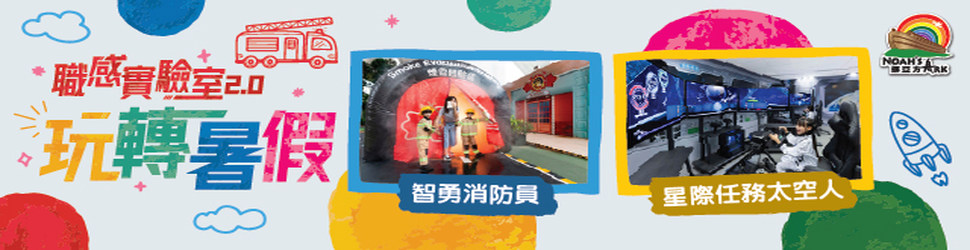
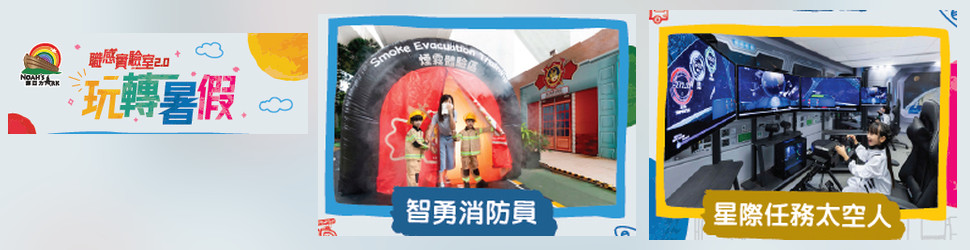
Rebuild unlisted 970x250 previews proportionally

diff --git a/ads/a/970x250/index.html b/ads/a/970x250/index.html
@@ -26,8 +26,8 @@
     .frame-03 { animation-name:frame-03; }
     .frame-04 { animation-name:frame-04; }
     .frame-05 { animation-name:frame-05; } .frame-06 { animation-name:frame-06; }
-    .badge { left:309px; top:15px; width:206px; height:140px; animation-name:badge-motion; }
-    .cta { left:809px; top:180px; width:152px; height:60px; animation-name:cta-motion; }
+    .badge { left:340px; top:15px; width:170px; height:140px; animation-name:badge-motion; }
+    .cta { left:753px; top:180px; width:125px; height:60px; animation-name:cta-motion; }
     .border {
       position:absolute; inset:0; z-index:10; pointer-events:none;
       box-shadow:inset 0 0 0 1px rgba(0,0,0,.18);
@@ -83,14 +83,14 @@
 </head>
 <body>
   <div class="ad" aria-label="Noah's Ark promotion">
-    <amp-img class="frame frame-01" src="frame-01.jpg" width="970" height="250" alt=""></amp-img>
-    <amp-img class="frame frame-02" src="frame-02.jpg" width="970" height="250" alt=""></amp-img>
-    <amp-img class="frame frame-03" src="frame-03.jpg" width="970" height="250" alt=""></amp-img>
-    <amp-img class="frame frame-04" src="frame-04.jpg" width="970" height="250" alt=""></amp-img>
-    <amp-img class="frame frame-05" src="base-05.jpg" width="970" height="250" alt=""></amp-img>
-    <amp-img class="frame frame-06" src="base-06.jpg" width="970" height="250" alt=""></amp-img>
-    <amp-img class="motion badge" src="badge-05.png" width="206" height="140" alt=""></amp-img>
-    <amp-img class="motion cta" src="cta-06.png" width="152" height="60" alt="More details"></amp-img>
+    <amp-img class="frame frame-01" src="frame-01.jpg?v=proportional-assets-0730" width="970" height="250" alt=""></amp-img>
+    <amp-img class="frame frame-02" src="frame-02.jpg?v=proportional-assets-0730" width="970" height="250" alt=""></amp-img>
+    <amp-img class="frame frame-03" src="frame-03.jpg?v=proportional-assets-0730" width="970" height="250" alt=""></amp-img>
+    <amp-img class="frame frame-04" src="frame-04.jpg?v=proportional-assets-0730" width="970" height="250" alt=""></amp-img>
+    <amp-img class="frame frame-05" src="base-05.jpg?v=proportional-assets-0730" width="970" height="250" alt=""></amp-img>
+    <amp-img class="frame frame-06" src="base-06.jpg?v=proportional-assets-0730" width="970" height="250" alt=""></amp-img>
+    <amp-img class="motion badge" src="badge-05.png?v=proportional-assets-0730" width="170" height="140" alt=""></amp-img>
+    <amp-img class="motion cta" src="cta-06.png?v=proportional-assets-0730" width="125" height="60" alt="More details"></amp-img>
     <div class="border" aria-hidden="true"></div>
   </div>
 </body>

diff --git a/ads/b/970x250/index.html b/ads/b/970x250/index.html
@@ -26,8 +26,8 @@
     .frame-03 { animation-name:frame-03; }
     .frame-04 { animation-name:frame-04; }
     
-    .tagline { left:15px; top:75px; width:391px; height:100px; animation-name:tagline-motion; }
-    .cta { left:788px; top:0px; width:182px; height:65px; animation-name:cta-motion; }
+    .tagline { left:97px; top:75px; width:322px; height:100px; animation-name:tagline-motion; }
+    .cta { left:735px; top:0px; width:150px; height:65px; animation-name:cta-motion; }
     .border {
       position:absolute; inset:0; z-index:10; pointer-events:none;
       box-shadow:inset 0 0 0 1px rgba(0,0,0,.18);
@@ -72,12 +72,12 @@
 </head>
 <body>
   <div class="ad" aria-label="Noah's Ark promotion">
-    <amp-img class="frame frame-01" src="frame-01.jpg" width="970" height="250" alt=""></amp-img>
-    <amp-img class="frame frame-02" src="frame-02.jpg" width="970" height="250" alt=""></amp-img>
-    <amp-img class="frame frame-03" src="frame-03.jpg" width="970" height="250" alt=""></amp-img>
-    <amp-img class="frame frame-04" src="base-04.jpg" width="970" height="250" alt=""></amp-img>
-    <amp-img class="motion tagline" src="tagline-04.png" width="391" height="100" alt=""></amp-img>
-    <amp-img class="motion cta" src="cta-04.png" width="182" height="65" alt="More details"></amp-img>
+    <amp-img class="frame frame-01" src="frame-01.jpg?v=proportional-assets-0730" width="970" height="250" alt=""></amp-img>
+    <amp-img class="frame frame-02" src="frame-02.jpg?v=proportional-assets-0730" width="970" height="250" alt=""></amp-img>
+    <amp-img class="frame frame-03" src="frame-03.jpg?v=proportional-assets-0730" width="970" height="250" alt=""></amp-img>
+    <amp-img class="frame frame-04" src="base-04.jpg?v=proportional-assets-0730" width="970" height="250" alt=""></amp-img>
+    <amp-img class="motion tagline" src="tagline-04.png?v=proportional-assets-0730" width="322" height="100" alt=""></amp-img>
+    <amp-img class="motion cta" src="cta-04.png?v=proportional-assets-0730" width="150" height="65" alt="More details"></amp-img>
     <div class="border" aria-hidden="true"></div>
   </div>
 </body>
